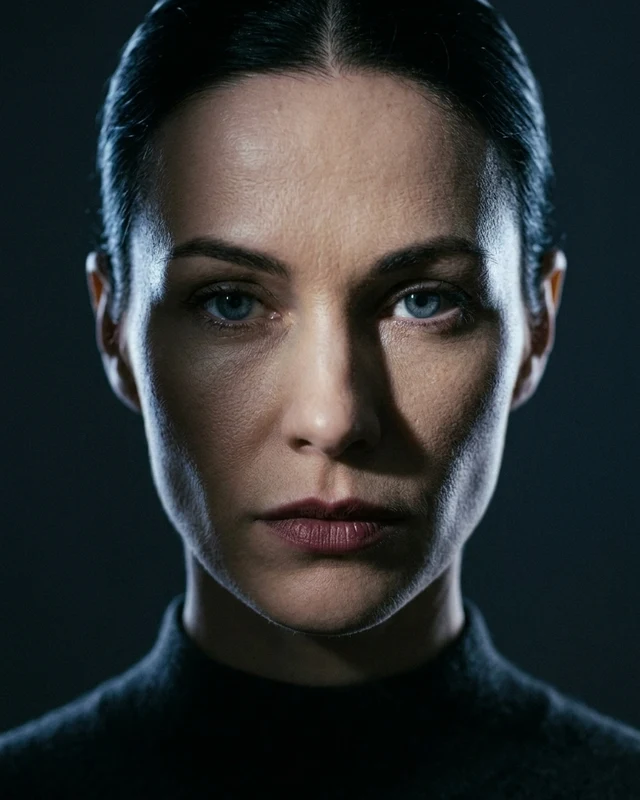
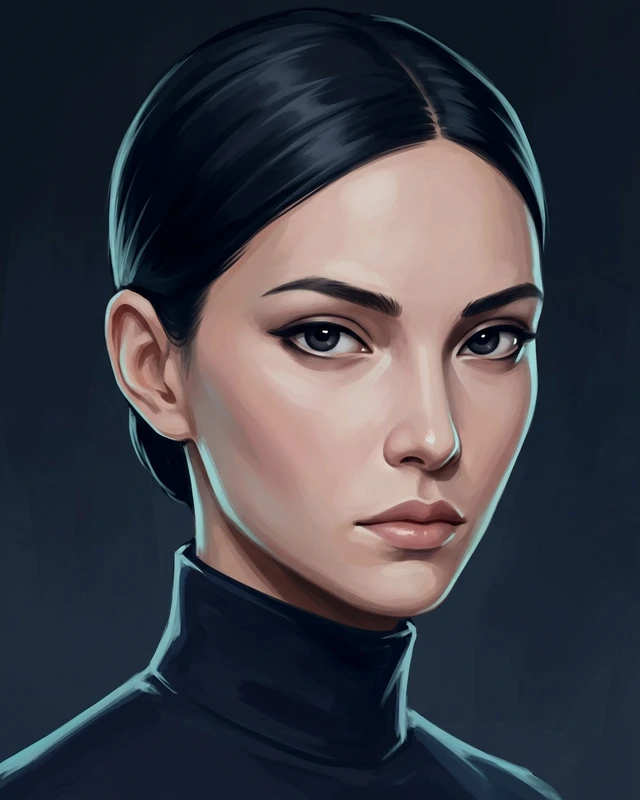
fix: replace portrait with stylized concept art and add dominant for Control Freak

diff --git a/test/lab.test.js b/test/lab.test.js
@@ -4,7 +4,7 @@ import request from 'supertest';
 import { createApp } from '../src/app.js';
 import { PERSONAS } from '../src/personas.js';
 import { ARCHETYPE_IDS } from '../public/js/archetypes.js';
-import { LAB_TURNS, SCENARIOS, SCENARIO_IDS, MOTIVES, PERSONA_NAMES } from '../public/js/lab-data.js';
+import { LAB_TURNS, SCENARIOS, SCENARIO_IDS, MOTIVES, PERSONA_NAMES, DOMINANTS } from '../public/js/lab-data.js';
 import {
   validateLabRequest, nextSpeaker, labSystem, labMessages, verdictPrompt, parseVerdict,
 } from '../src/lab.js';
@@ -27,6 +27,7 @@ const verdictJson = JSON.stringify({
 test('lab data covers every archetype and matches persona names', () => {
   for (const id of ARCHETYPE_IDS) {
     assert.ok(MOTIVES[id], `motive for ${id}`);
+    assert.ok(DOMINANTS[id], `dominant for ${id}`);
     assert.equal(PERSONA_NAMES[id], PERSONAS[id].name, `name for ${id}`);
   }
   assert.equal(SCENARIO_IDS[0], 'first-meeting');

diff --git a/public/js/lab-data.js b/public/js/lab-data.js
@@ -82,6 +82,7 @@ export const DOMINANTS = {
   hsp: { name: 'Сенсорная безопасность', focus: 'Защита от перегрузки и поиск искренности' },
   secure: { name: 'Взаимность и границы', focus: 'Устойчивость, прямота и равный диалог' },
   schizoid: { name: 'Абсолютная автономия', focus: 'Защита ментального пространства и концептуализация' },
+  'control-freak': { name: 'Тотальный регламент', focus: 'Навязывание правил, микроконтроль и устранение отклонений' },
 };
 
 /** What each archetype is really after — its payoff in the game. */
